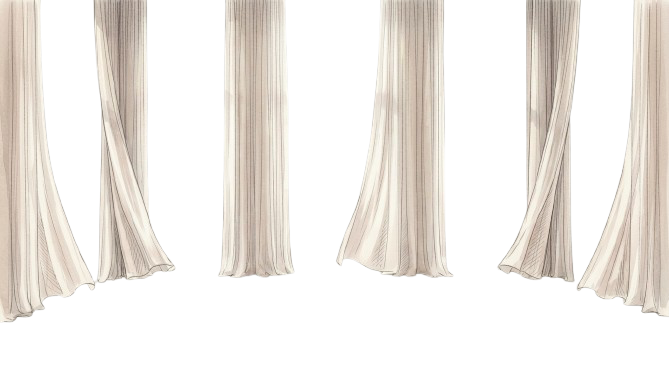
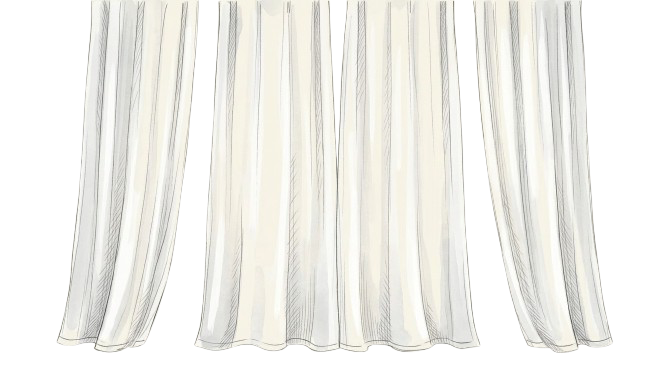
architecture proof passed — update all project docs

diff --git a/index.html b/index.html
@@ -13,15 +13,15 @@
       overflow: hidden;
     }
 
-    /* room.jpg is a static CSS background — no WebGL needed for it */
+    /* Layer 1 (furthest back): empty room — walls, windows, floor */
     body {
-      background-image: url("images/room.png");
+      background-image: url("images/empty-room-window.png");
       background-size: cover;
       background-position: center;
       background-repeat: no-repeat;
     }
 
-    /* full-screen canvas that curtains.js draws into */
+    /* Layer 2 (middle): curtains.js WebGL canvas */
     #canvas {
       position: fixed;
       top: 0;
@@ -31,7 +31,7 @@
       z-index: 1;
     }
 
-    /* the plane source image — hidden from normal layout, used as a texture */
+    /* the plane source image — hidden from layout, used as a texture */
     .curtain-plane {
       position: absolute;
       top: 0;
@@ -43,16 +43,39 @@
     .curtain-plane img {
       display: none;
     }
+
+    /* Layer 3 (foreground): chair, sitting in front of the curtain */
+    #chair-layer {
+      position: fixed;
+      top: 0;
+      left: 0;
+      width: 100%;
+      height: 100%;
+      z-index: 2;
+      pointer-events: none;
+    }
+
+    #chair-layer img {
+      width: 100%;
+      height: 100%;
+      object-fit: cover;
+      object-position: center;
+    }
   </style>
 </head>
 <body>
 
-  <!-- canvas curtains.js expects -->
+  <!-- Layer 2: canvas curtains.js draws into -->
   <div id="canvas"></div>
 
-  <!-- the curtain layer: a plane whose texture is curtain.png -->
+  <!-- the curtain texture source -->
   <div class="curtain-plane">
     <img src="images/curtain.png" alt="curtain" data-sampler="planeTexture">
+  </div>
+
+  <!-- Layer 3: chair in front of everything -->
+  <div id="chair-layer">
+    <img src="images/chair-removebg-preview.png" alt="">
   </div>
 
   <!-- vertex shader: slow gentle horizontal wave, anchored at the top -->

diff --git a/docs/novo-v1-build-order.md b/docs/novo-v1-build-order.md
@@ -17,77 +17,81 @@ V1 is complete when all three steps are done: the room works, the curtain motion
 
 | What | File | Status | Notes |
 |------|------|--------|-------|
-| City view layer | images/view.png | Exists | The soft city beyond the glass. Sits behind the room layer. |
-| Room interior layer | images/room.png | Exists | The main scene — windows, egg chair, walls. |
-| Curtain layer | images/curtain.png | Exists | Transparent sheer curtains. Generated in Runway, background removed via remove.bg. |
-| Main HTML file | index.html | Exists | Loads the three image layers, runs curtain animation. Served at localhost:8000. |
-| curtains.js integration | (in index.html) | Working | Curtain layer animates over the static room. |
+| Room layer (back) | images/room.png | In use | Runway-generated. Will be replaced by Blender-anchored version. |
+| Curtain layer (middle, animated) | images/curtain.png | In use | Runway + remove.bg. Animated via curtains.js. Will be replaced. |
+| Chair layer (front) | images/chair-removebg-preview.png | In use | Runway + remove.bg. Will be replaced. |
+| Empty room variant | images/empty-room-window.png | In directory | Status TBC. |
+| Main HTML file | index.html | In use | Updated — loads three image layers with z-ordering, runs curtain animation. |
+| curtains.js integration | (in index.html) | Working | Animates the middle curtain layer. |
 | Design brief | docs/Novo Brief v13.md | Current | Living document, maintained by Jeanette. |
-| Runway prompts | docs/Novo_v1_Runway_Prompts.md | Exists | Prompts used to generate the scene images. |
+| Runway prompts | docs/Novo_v1_Runway_Prompts.md | In use | Prompts for generating scene images. |
+| Interaction diagram | docs/Novo v1 — How It All Interacts.png | Current | Reference architecture. |
 
-Three image layers already exist (view / room / curtain). The fourth layer — shader/grain — is code applied on top (step 3).
+Three-layer architecture proven: room behind, curtain animated in the middle, chair in front. Current images prove the concept but don't share exact perspective — they were generated separately in Runway. The Blender-anchored pipeline (Phase 0b) will produce replacements that share one composition.
 
 ---
 
 ## What needs to be built — in order
 
-### Phase 0 — R&D and asset pipeline (before any building)
+### Phase 0a — Architecture proof ✓ PASSED
 
-The current room images were generated directly in Runway. Phase 0 tests a better pipeline: build a canonical 3D room in Blender, render layers from confirmed angles, then run Runway style transfer to get the pencil-drawn aesthetic. This solves the consistency problem — Runway alone can't guarantee the same room from different angles, but a Blender model can.
+**What was tested:** Can multiple Runway-generated image layers stack and composite in the browser, with curtains.js animating a middle layer while other layers sit above and below?
 
-**0.1: Test Claude/Blender pipeline**
-**Owner:** Assets instance (Blender/Claude MVP)
-**What it is:** Can Claude build a simple room from a description in Blender? Test with a basic scene — walls, window, chair. Not the final room; just proving the pipeline works.
-**Done when:** A recognisable room exists as a Blender file, built by Claude from a text description.
+**Result:** Yes. Three-layer architecture proven — room behind, curtain animated in the middle, chair in front. index.html updated to support three layers with z-ordering.
 
-**0.2: Test Runway style transfer consistency**
-**Owner:** Assets instance (Runway)
-**What it is:** Take a Blender render and run Runway style transfer on it. Does the pencil-drawn / illustrated look hold across multiple angles of the same scene? Test with at least two different camera angles of the same room.
-**Done when:** Two or more angles of the same Blender room, style-transferred in Runway, look like the same room in the same style.
+**What this confirms:**
+- The stacked-layers approach from the interaction diagram is sound
+- curtains.js can animate a middle layer while other layers sit above and below
+- Runway-generated assets in the pencil-drawn style can composite together
+- The z-ordering code works
 
-**0.3: Build the canonical Blender room**
-**Owner:** Assets instance (Blender/Claude MVP) + Jeanette (design approval)
-**Depends on:** 0.1 and 0.2 both successful.
-**What it is:** Build the actual Novo room in Blender — the loft, floor-to-ceiling windows, egg chair, the space. This becomes the canonical geometry that all renders come from.
-**Done when:** Jeanette approves the room as the right space.
-
-**0.4: Render all required layers**
-**Owner:** Assets instance (Blender)
-**Depends on:** 0.3 complete.
-**What it is:** Render the separate layers the build needs — room, view, curtain — from the confirmed camera angle(s). Each moving element is its own layer (per brief §12b).
-**Done when:** Clean, separate layer renders exist for each required element.
-
-**0.5: Run Runway style pass on each render**
-**Owner:** Assets instance (Runway) + Jeanette (tuning by eye)
-**Depends on:** 0.4 complete.
-**What it is:** Apply the Runway style transfer to each rendered layer. The pencil-drawn, painterly, illustrated look. Prompts should include "painterly / illustration / soft edges / not photorealistic / muted / calm" as the defence against the clunky-realistic look (per brief §12a companion artefacts).
-**Done when:** Each layer looks right individually and together they compose into a coherent scene.
-
-**0.6: Confirm asset set is consistent and complete**
-**Owner:** Integration/QA + Jeanette
-**Depends on:** 0.5 complete.
-**What it is:** Stack the layers, check they compose cleanly, confirm the set is ready for Phase 1 build. The current Runway-only images (room.png, view.png, curtain.png) may be superseded by the new pipeline output.
-**Done when:** Jeanette confirms the asset set is the room she wants to build with. Asset register updated with new files.
+**What it exposed (logged in known issues):**
+- Curtain may be tiling/repeating across the canvas rather than hanging as distinct panels matching window widths (ISSUE-10)
+- Layers don't share exact perspective — generated separately in Runway, not from one anchored composition (ISSUE-11). This is precisely what the Blender pipeline is meant to solve
+- Curtain motion tuning still ahead — wait for final art (ISSUE-01)
 
 ---
 
-### Phase 1 — Build (uses confirmed assets from Phase 0)
+### Phase 0b — Blender-anchored asset pipeline (current phase)
 
-**1.1: Room and curtains working ✓**
-**Owner:** Animation instance + HTML/CSS instance
-**Status:** Complete with current assets. May need re-integration if Phase 0 produces new layer images.
-**What done looked like:** Open localhost:8000 and see a room with a city view, curtains moving over it. Layers compose into a single scene.
+The architecture works. The next phase is making the art right — getting layers that truly belong together because they're anchored to the same Blender composition. Current images prove the concept but will be replaced.
+
+**0b.1: Write Blender-anchored prompts**
+**Owner:** Assets instance (Runway Claude) — brief is ready
+**What it is:** Get the prompts written that will drive the Blender room build and the Runway style transfer. These need to describe the canonical room precisely enough that Blender can build it and Runway can style it consistently.
+**Done when:** Prompts are written and reviewed.
+
+**0b.2: Test prompts in Runway — iterate until layers share one composition**
+**Owner:** Jeanette (in Runway)
+**Depends on:** 0b.1 complete.
+**What it is:** Generate layers from the Blender-anchored composition. Iterate until the room, curtain, and chair share exact perspective because they come from the same 3D scene. This is where the Runway consistency problem (ISSUE-09) gets solved.
+**Done when:** A set of layers exists where every element belongs to the same room — same perspective, same light, same scale.
+
+**0b.3: Confirm asset set is consistent and complete**
+**Owner:** Jeanette
+**Depends on:** 0b.2 complete.
+**What it is:** Stack the new layers, confirm they compose cleanly into one coherent room. Current images in images/ will be superseded.
+**Done when:** Jeanette confirms these are the layers to build with. Asset register updated.
+
+---
+
+### Phase 1 — Build (uses confirmed assets from Phase 0b)
+
+**1.1: Room and layers working ✓ (architecture proven — will re-integrate with final art)**
+**Owner:** Code instance
+**Status:** Architecture proven with current assets. Will need re-integration when Phase 0b produces aligned layers — drop the new images into the working HTML.
+**What done looked like:** Open localhost:8000 and see a room with curtains moving and the chair in front. Three layers composing into a single scene.
 
 **1.2: Curtain motion tuned to natural**
 **Owner:** Animation instance
-**Depends on:** Step 1.1 confirmed with final assets.
+**Depends on:** Step 1.1 re-confirmed with final Blender-anchored assets.
 **What it is:** The curtain motion is currently too regular — default wave parameters. It needs to feel like a real curtain stirred by a soft breeze: anchored at the top, displacement increasing downward, layered randomness so it never looks mechanical. See brief §12b for the precise motion model (anchored travelling sine-wave displacement, not rigid drift).
 **Done when:** Jeanette watches the curtain for thirty seconds and it never repeats in a way she notices. It looks like cloth, not a wave function.
 
 **1.3: Grain layer added — V1 complete**
 **Owner:** Animation instance (shader code) + Jeanette (tuning by eye)
 **Depends on:** Step 1.2 complete (motion settled before adding visual treatment on top).
-**What it is:** A post-processing layer applied over the whole scene — grain, soft focus, vignette, hatching. This is the fourth layer in the stack (see interaction diagram). It sits on top of everything and gives the scene its painterly, illustrated register. See brief §8 (organic on technical) and §12a (painterly shader pass).
+**What it is:** A post-processing layer applied over the whole scene — grain, soft focus, vignette, hatching. The top layer in the stack (see interaction diagram). Sits over everything and gives the scene its painterly, illustrated register. See brief §8 (organic on technical) and §12a (painterly shader pass).
 **Done when:** The room reads as illustrated, not photographic. There is a visible texture across the whole scene. It feels like "paper or painting — not real, but important." V1 is complete.
 
 ---
@@ -114,9 +118,9 @@ Everything else in the brief. Specifically:
 
 ## How Jeanette knows V1 is finished
 
-Phase 0 is done when the asset pipeline is proven and a consistent set of styled layers exists. Phase 1 is done when three things are confirmed in order:
+Phase 0a (architecture proof) is passed. Phase 0b is done when Blender-anchored layers exist that share one composition. Phase 1 is done when three things are confirmed in order:
 
-1. **The room exists as a space you can sit with.** Layers compose into a single scene — a city view behind the room behind the curtains. It reads as a room, not as layers. *(Phase 1, step 1.1 — done with current assets, may need re-confirmation with Phase 0 assets.)*
+1. **The layers compose into one room.** Blender-anchored layers drop into the working HTML and read as a single coherent space — same perspective, same light, same scale. *(Phase 1, step 1.1 — re-integration with final art.)*
 2. **The curtain moves like cloth.** It reads as a sheer curtain stirred by a soft breeze, not a wave effect. Jeanette watches it for thirty seconds and it never repeats in a way she notices. *(Phase 1, step 1.2.)*
 3. **The scene reads as illustrated, not digital.** The grain/shader layer gives the whole image a texture — paper, pencil, painting. It feels like "not real, but important." *(Phase 1, step 1.3.)*
 

diff --git a/docs/novo-v1-asset-register.md b/docs/novo-v1-asset-register.md
@@ -11,9 +11,10 @@
 novo-v1/
 ├── index.html
 ├── images/
-│   ├── view.png
-│   ├── room.png
-│   └── curtain.png
+│   ├── chair-removebg-preview.png
+│   ├── curtain.png
+│   ├── empty-room-window.png
+│   └── room.png
 └── docs/
     ├── Novo Brief v13.md
     ├── Novo v1 — How It All Interacts.png
@@ -29,16 +30,17 @@ novo-v1/
 
 ## Active build files
 
-These are the files that make V1 run.
+These are the files that make V1 run. The proven layer architecture is: room behind, curtain animated in the middle, chair in front.
 
 | # | Filename | Location | What it is | Source | Status |
 |---|----------|----------|-----------|--------|--------|
-| 1 | index.html | /novo-v1/ | Main page. Loads the three image layers, runs curtain animation. | Hand-written | In use |
-| 2 | view.png | /novo-v1/images/ | City view layer — the soft city beyond the glass. Sits behind the room. | Runway | In use — may be superseded by Phase 0 pipeline |
-| 3 | room.png | /novo-v1/images/ | Room interior layer — windows, egg chair, walls. The main scene. | Runway | In use — may be superseded by Phase 0 pipeline |
-| 4 | curtain.png | /novo-v1/images/ | Transparent curtain layer — sheer curtains, no background. Animates over the room. | Runway + remove.bg | In use — may be superseded by Phase 0 pipeline |
+| 1 | index.html | /novo-v1/ | Main page. Loads three image layers with z-ordering, runs curtain animation via curtains.js. Updated to support three-layer architecture. | Hand-written | In use |
+| 2 | room.png | /novo-v1/images/ | Room interior — back layer. | Runway | In use — will be replaced by Blender-anchored version |
+| 3 | curtain.png | /novo-v1/images/ | Transparent curtain — middle layer, animated. | Runway + remove.bg | In use — will be replaced by Blender-anchored version |
+| 4 | chair-removebg-preview.png | /novo-v1/images/ | Chair — front layer. Background removed. | Runway + remove.bg | In use — will be replaced by Blender-anchored version |
+| 5 | empty-room-window.png | /novo-v1/images/ | Empty room/window variant. | Runway | In directory — status TBC |
 
-Note: The brief describes V1 as four stacked layers — view / room / curtain / shader-grade (§12a). Three of those four are images and exist. The fourth (shader/grain) is code, not a file — it will be applied as a post-processing pass over the other three. Current images were generated directly in Runway; Phase 0 tests a Blender→Runway pipeline that may produce replacements.
+Note: These images were generated separately in Runway and do not share exact perspective. They prove the architecture works but will be replaced by layers rendered from the same Blender composition (Phase 0, Blender pipeline). Previous file view.png has been removed.
 
 ---
 
@@ -46,16 +48,14 @@ Note: The brief describes V1 as four stacked layers — view / room / curtain / 
 
 | # | Filename | Location | What it is | Status |
 |---|----------|----------|-----------|--------|
-| 5 | Novo Brief v13.md | /novo-v1/docs/ | Current design brief. Living document. | Current |
-| 6 | Novo v1 — How It All Interacts.png | /novo-v1/docs/ | V1 interaction diagram. Shows the full V1 architecture: one HTML page, three code files (HTML/CSS/JS), two JS jobs, four stacked layers, external view image pool, optional sound. The reference architecture for every instance working on V1. Note: diagram shows broader scope than current V1 build (includes seasonal view swap and sound, both post-V1). | Current |
-| 7 | Novo_Scoping_Worksheet.md | /novo-v1/docs/ | Scoping worksheet. | Unknown — Jeanette to confirm if still active |
-| 8 | Novo_v1_Runway_Prompts.md | /novo-v1/docs/ | Runway prompts for generating V1 scene images. | In use |
-| 9 | novo-v1-build-order.md | /novo-v1/docs/ | Project structure and build order (Phase 0 + Phase 1). | Current |
-| 10 | novo-v1-asset-register.md | /novo-v1/docs/ | This file. | Current |
-| 11 | novo-v1-known-issues.md | /novo-v1/docs/ | Known issues, risks, and deferred items. | Current |
-| 12 | novo-backlog.md | /novo-v1/docs/ | Backlog — active tasks and post-V1 ideas. | Current |
-
-Previous brief versions (v1–v12) have been deleted. Only v13 is retained.
+| 6 | Novo Brief v13.md | /novo-v1/docs/ | Current design brief. Living document. | Current |
+| 7 | Novo v1 — How It All Interacts.png | /novo-v1/docs/ | V1 interaction diagram. Reference architecture. Note: diagram shows four layers (view / room / curtain / shader-grade); the proven build uses three image layers (room / curtain / chair) plus a future shader layer. | Current |
+| 8 | Novo_Scoping_Worksheet.md | /novo-v1/docs/ | Scoping worksheet. | Unknown — Jeanette to confirm if still active |
+| 9 | Novo_v1_Runway_Prompts.md | /novo-v1/docs/ | Runway prompts for generating V1 scene images. | In use |
+| 10 | novo-v1-build-order.md | /novo-v1/docs/ | Project structure and build order. | Current |
+| 11 | novo-v1-asset-register.md | /novo-v1/docs/ | This file. | Current |
+| 12 | novo-v1-known-issues.md | /novo-v1/docs/ | Known issues, risks, and deferred items. | Current |
+| 13 | novo-backlog.md | /novo-v1/docs/ | Backlog — active tasks and post-V1 ideas. | Current |
 
 ---
 
@@ -63,12 +63,12 @@ Previous brief versions (v1–v12) have been deleted. Only v13 is retained.
 
 | What | Phase/Step | Notes |
 |------|-----------|-------|
-| Blender room file (.blend) | Phase 0.3 | The canonical 3D room geometry. Created if pipeline test succeeds. |
-| Blender layer renders | Phase 0.4 | Rendered layers from confirmed angles. |
-| Runway-styled layer images | Phase 0.5 | Style-transferred versions of the Blender renders. May replace current images/ contents. |
-| CSS file (if separated from index.html) | Phase 1 | May stay inline. TBD by HTML/CSS instance. |
-| JS file (if separated from index.html) | Phase 1 | Curtain animation logic may be extracted. TBD by Animation instance. |
-| Shader/grain code (if separate file) | Phase 1.3 | The fourth layer. May be inline JS/CSS or a separate file. TBD by Animation instance. |
+| Blender room file (.blend) | Phase 0 | The canonical 3D room geometry. All layers rendered from this. |
+| Blender-anchored layer renders | Phase 0 | Room, curtain, chair rendered from the same composition — shared perspective. |
+| Runway-styled layer images | Phase 0 | Style-transferred versions of the Blender renders. Will replace current images/ contents. |
+| CSS file (if separated from index.html) | Phase 1 | May stay inline. TBD. |
+| JS file (if separated from index.html) | Phase 1 | May stay inline. TBD. |
+| Shader/grain code (if separate file) | Phase 1.3 | The top layer. May be inline. TBD. |
 
 ---
 

diff --git a/docs/novo-v1-known-issues.md b/docs/novo-v1-known-issues.md
@@ -7,16 +7,26 @@
 
 ## Active issues (blocking or affecting the current build step)
 
-**ISSUE-01: Curtain motion too regular**
-Severity: Active — this IS Phase 1, step 1.2.
-The curtain animates but uses default wave parameters. The motion reads as a wave function, not as cloth. Needs layered randomness, anchored displacement increasing from the top, and enough variation that it never visibly repeats. See brief §12b.
-Owner: Animation instance.
-
-**ISSUE-09: Runway style consistency across angles (live risk)**
-Severity: Active — this is what Phase 0 exists to solve.
-Runway generates beautiful individual images, but cannot guarantee consistency across multiple renders of the same room. If the room needs to be seen from more than one angle (now or post-V1), each Runway generation may produce a subtly different room — different proportions, different light, different chair. This breaks the feeling of one coherent space. The Blender→Runway pipeline (Phase 0) is the proposed solution: Blender holds the canonical geometry, Runway applies the style. Phase 0.2 specifically tests whether Runway style transfer holds consistency across angles of the same Blender scene.
+**ISSUE-09: Layers don't share exact perspective (confirmed — Blender pipeline will solve)**
+Severity: Active — this is what Phase 0b exists to solve.
+The current layers were generated separately in Runway and do not share exact perspective — different proportions, different light angles, different scale. The architecture proof (Phase 0a) confirmed the stacking works, but also confirmed the art needs to come from one anchored composition. The Blender→Runway pipeline (Phase 0b) is the solution: Blender holds the canonical geometry so all layers share one viewpoint, Runway applies the style.
 Owner: Assets instance.
-Risk level: If Phase 0.2 fails (style transfer doesn't hold), the pipeline doesn't work and alternative approaches are needed. This is the single biggest technical risk in V1.
+Risk level: If Runway style transfer doesn't hold consistency across layers from the same Blender scene, the pipeline doesn't work and alternative approaches are needed. This remains the single biggest technical risk in V1.
+
+**ISSUE-10: Curtain may be tiling/repeating across canvas**
+Severity: Observed — not blocking, log for now.
+The curtain looks like it might be tiling or repeating across the canvas rather than hanging as distinct panels matching the window widths. Needs checking once final art is in place — may resolve itself with Blender-anchored curtain layer.
+Owner: Animation instance (when final art arrives).
+
+**ISSUE-11: Perspective mismatch between current layers**
+Severity: Observed — expected to be resolved by Phase 0b.
+The room, curtain, and chair were generated separately in Runway, so they don't share exact perspective. This is precisely what the Blender-anchored pipeline is meant to solve. Not a problem with the architecture (which is proven) — a problem with the current placeholder art.
+Owner: Assets instance.
+
+**ISSUE-01: Curtain motion too regular (waiting for final art)**
+Severity: Deferred — Phase 1, step 1.2. Wait for Blender-anchored assets before tuning.
+The curtain animates but uses default wave parameters. The motion reads as a wave function, not as cloth. Needs layered randomness, anchored displacement increasing from the top, and enough variation that it never visibly repeats. See brief §12b. No point tuning motion on placeholder art — tune once the final curtain layer is in place.
+Owner: Animation instance.
 
 ---
 
@@ -37,8 +47,8 @@ The brief elevates sound to a core immersion mechanism (§10) and calls headphon
 **ISSUE-04: Seasonal view swap not implemented**
 V1 uses one static view (view.png). The brief describes a system where JS checks the real-world date, picks a season, and randomly selects a view from an external pool of seasonal images (§11a). The interaction diagram includes this as "JS Job B." Deferred — V1 has one view only.
 
-**ISSUE-05: No version control**
-No Git repository or any other version control set up for the project. Not blocking V1, but risk increases with every change made to working code. Worth setting up before post-V1 work begins.
+**ISSUE-05: No version control** — CLOSED
+Git repository set up and pushing to GitHub.
 
 ---
 

diff --git a/docs/novo-backlog.md b/docs/novo-backlog.md
@@ -8,10 +8,12 @@ Everything below "Post-V1" is not built until V1 is complete and confirmed as fe
 
 ---
 
-## Active now — Phase 0 (asset pipeline proof)
+## Active now — Phase 0b (Blender-anchored asset pipeline)
 
-**Blender→Runway pipeline test**
-The first active task. Can Claude build a room in Blender from a description, and does Runway style transfer hold consistency across multiple angles of the same Blender scene? If the pipeline works, it replaces the current approach (generating each image separately in Runway, which can't guarantee consistency). Full steps are in the build order (Phase 0, steps 0.1–0.6). The Runway consistency problem is tracked as ISSUE-09 in the known issues log.
+**Architecture proof passed (Phase 0a ✓).** The stacked-layers approach works. curtains.js animates a middle layer while other layers sit above and below. Z-ordering code works. Runway-generated pencil-drawn assets composite together. Three layers proven: room behind, curtain animated in the middle, chair in front.
+
+**Current task: Blender-anchored prompts and art pipeline**
+The architecture is proven but the current layers don't share exact perspective (generated separately in Runway). Phase 0b replaces them with layers rendered from the same Blender composition — same perspective, same light, same scale. Steps: (1) write Blender-anchored prompts, (2) test in Runway until layers share one composition, (3) confirm asset set. Full detail in the build order (Phase 0b). The Runway consistency risk is tracked as ISSUE-09.
 
 ---
 
